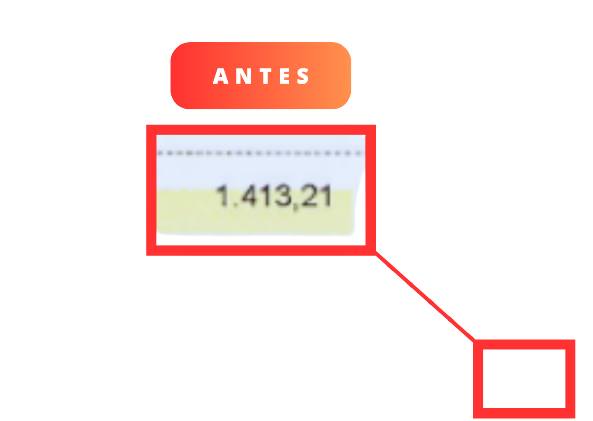
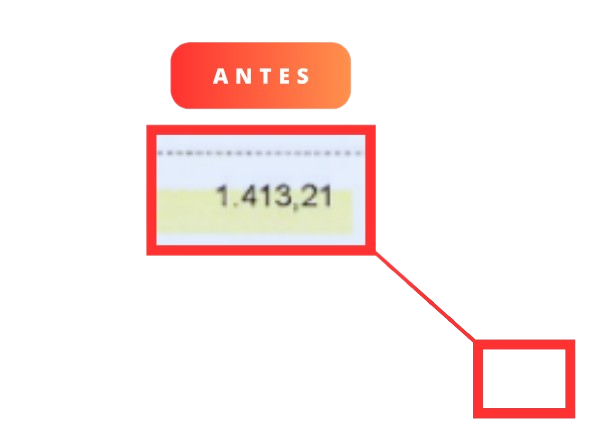
Correção img focus-antes.png e alteração visual na seção 'about'

diff --git a/index.html b/index.html
@@ -32,7 +32,7 @@
       crossorigin="anonymous"
       referrerpolicy="no-referrer"
     />
-    <link rel="stylesheet" href="./style/main.css?v=3" />
+    <link rel="stylesheet" href="./style/main.css?v=4" />
     <link rel="stylesheet" href="/style/normalize.css" />
     <link rel="icon" href="/imagens/icon.png" />
     <script src="https://unpkg.com/scrollreveal"></script>
@@ -664,6 +664,7 @@
             </a>
             <a
               href="https://www.linkedin.com/in/claudio-gomes-ba2499228/"
+              target="_blank"
               class="icon icon--linkedin"
             >
               <i class="ri-linkedin-line"></i>
@@ -677,10 +678,10 @@
     <script src="https://kit.fontawesome.com/8d49283466.js" crossorigin="anonymous"></script>
     <script src="https://ajax.googleapis.com/ajax/libs/jquery/3.3.1/jquery.min.js"></script>
     <script src="./js/smoothscrolling.js"></script>
-    <script src="/js/embedVideos.js?v=3"></script>
-    <script src="/js/sendEmail.js?v=3"></script>
+    <script src="/js/embedVideos.js?v=4"></script>
+    <script src="/js/sendEmail.js?v=4"></script>
     <script src="https://smtpjs.com/v3/smtp.js"></script>
-    <script src="/js/scrollReveal.js?v=3"></script>
+    <script src="/js/scrollReveal.js?v=4"></script>
     <script async src="//www.instagram.com/embed.js"></script>
   </body>
 </html>

diff --git a/style/main.css b/style/main.css
@@ -289,10 +289,11 @@ body {
   flex-direction: column;
   gap: 1em;
   padding: 1em;
+  flex: 70%;
 }
 
 .about-text span {
-  font-size: 2.5em;
+  font-size: 2.5vw;
   color: #000000a8;
   text-shadow: -0px 0px 7px rgba(28, 31, 0, 1);
   font-weight: bold;
@@ -302,12 +303,12 @@ body {
   width: 100%;
   height: 100%;
   list-style: none;
-  font-size: 1.2em;
+  font-size: 1.5vw;
 }
 
 .about-text li {
   margin: 1.5em 0;
-  padding: 0.5em;
+  padding: 0.8em;
 }
 
 .about-text li:nth-child(odd) {
@@ -324,6 +325,8 @@ body {
   flex-direction: column;
   gap: 1em;
   width: 100%;
+  flex: 30%;
+  padding: 1em;
 }
 
 .about-img img {
